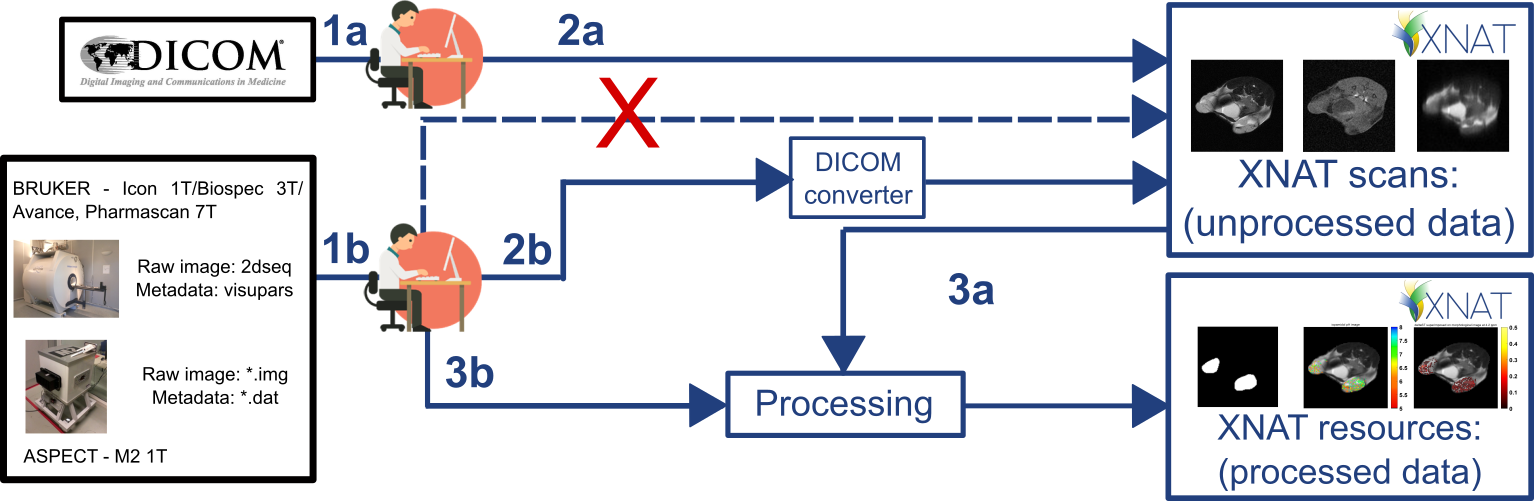
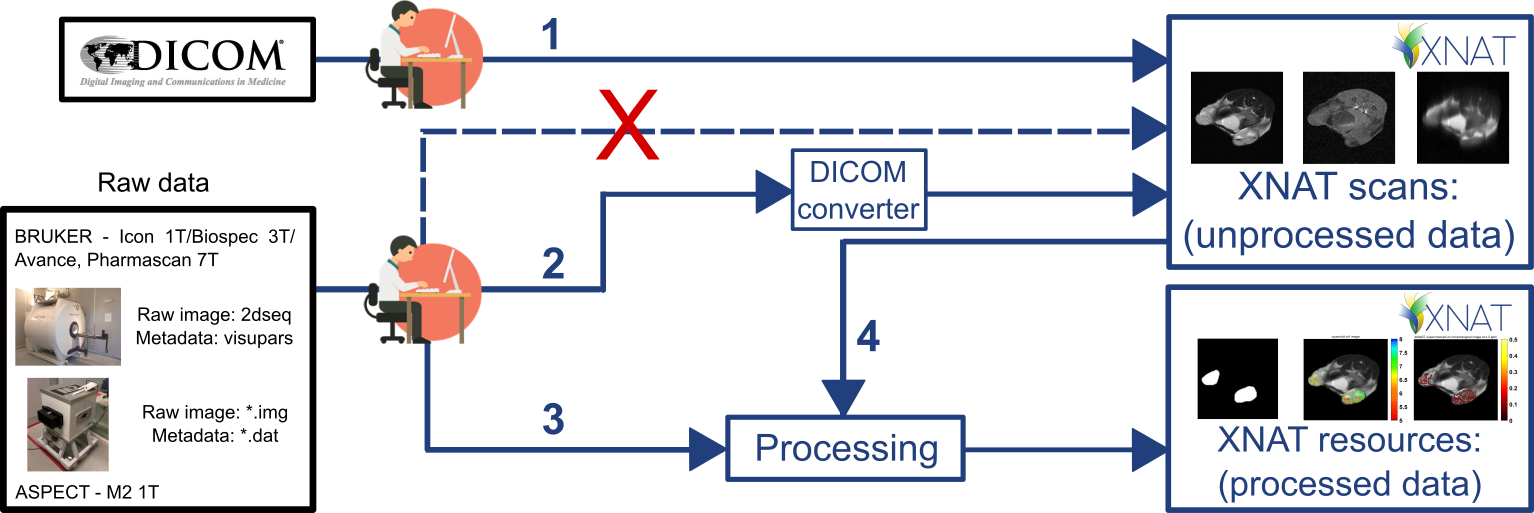
xnat page updated

diff --git a/website/research/research_xnat.php b/website/research/research_xnat.php
@@ -7,7 +7,7 @@ $localizer = "../";
     <!-- InstanceBegin template="/Templates/research.dwt" codeOutsideHTMLIsLocked="false" -->
     <head>
         <?php require $localizer . 'includes/head_const.inc.php'?>
-        <title>Molecular Imaging Center - University of Torino - XNAT </title>
+        <title>Molecular Imaging Center - University of Torino - CIM-XNAT </title>
         <meta name="description" content="" />
     </head>
     <body>
@@ -26,7 +26,7 @@ $localizer = "../";
                 <div id='content'>
                     <div class='paddingOuter'>
                         <div id='band'>
-                            <h1 id='subsectionTitle'><!-- InstanceBeginEditable name="subsection title" -->XNAT 
+                            <h1 id='subsectionTitle'><!-- InstanceBeginEditable name="subsection title" -->CIM-XNAT 
                              <!-- InstanceEndEditable --></h1>
                         </div>
                         <div class='paddingInner'>
@@ -34,35 +34,39 @@ $localizer = "../";
                                                                    
                                   <font size="3" ><b>Welcome to the CIM-XNAT information website!</b></font>
                                     <p class="indent">
-                                    We installed a <a href= "https://www.xnat.org" target="_blank" style="color:#dc6a10">XNAT</a> service 
+                                    A <a href= "https://www.xnat.org" target="_blank" style="color:#dc6a10">XNAT</a> service for archiving and processing preclinical medical images is
                                     available at <a href= "http://cim-xnat.unito.it/app/template/Login.vm" target="_blank" style="color:#dc6a10">http://cim-xnat.unito.it</a>. </br>
                                     Small animal imaging facilities are highly specialized centers that provide the research community access to cutting-edge imaging technologies. 
-                                    These centers have therefore to deal with the complexity and the variety of preclinical trial datasets.  Moreover, imaging data analysis requires a 
-                                    multidisciplinary effort, in terms of data management and processing. 
-                                    Our aim is to overcome this limitation through the integration of an open-source archiving platform with customizable tools for automated image processing. 
-                                    The workflow is based on the following steps:
+                                    These centers have therefore to deal with the complexity and the variety of preclinical image datasets in terms of archiving and retrieving image datasets as well as
+									for the management and processing. To date, no custom or standard solutions are available to imaging centers to fullfill these tasks.</br>
+									
+									XNAT natively supports multiple imaging modalities, such as MR, PET, CT, and US. We are extending XNAT datatypes to other 
+                                    preclinical imaging modalities, such as Optoacoustic (OA) and Optical Imaging (OI).</br>
+                                    
+                                    <p style="text-align:center;"><img src="../images/research_lines/DB.png" style="width: 400px; height: auto;  margin: 20px;" > </img></p>
+                                    
+									
+									We have overcome these limitations through the integration of an open-source archiving platform commonly exploited at clinical level based on XNAT with customizable tools for automated image processing. 
+                                    
+									The developed platform can provide the following workflow:
                                     <ul>
-     							   <li> retrieving multiple imaging datasets acquired through several instrumentations and modalities either in DICOM (1a) or proprietary formats (1b);</li> 
-                                    <li> a direct import of DICOM images to XNAT (2a) or a Bruker ParaVision to DICOM format converter to import images to XNAT (2b); </li> 
-                                    <li> an XNAT image processing pipeline accepting as input DICOM files (3a) or an image processing tool accepting raw data (3b) to produce parametric images related to biological aspects.</li> 
+     							   <li> importing multiple imaging datasets acquired through several instrumentations and modalities either in DICOM (1) or proprietary formats via DICOM converter (2);</li> 
+                                    <li> managing different experimental protocols importing user-defined variables (treated/untreated groups, different timepoints, doses, ...); </li> 
+                                    <li> image processing tool accepting raw data (3) or an XNAT image processing pipeline accepting as input DICOM files (4) to produce parametric images by calling user-proprietary image-analysis script.</li> 
                                     </ul>             
 									</p>                      
                                     
                                     <img src="../images/research_lines/xnat_workflow.png" style="width: 850px; height: auto;  margin: 20px;" > </img> <br/>
                                     
-                                     XNAT natively supports multiple imaging modalities, such as MR, PET, CT, and US. We aim to extend XNAT datatypes to other 
-                                    preclinical imaging methods, such as Optoacoustic (OA) and Optical Imaging (OI).</br>
-                                    
-                                    <p style="text-align:center;"><img src="../images/research_lines/DB.png" style="width: 400px; height: auto;  margin: 20px;" > </img></p>
                                       
-                                   We offer the following services:            
+                                    In the near future, we offer the following services:            
      							   <ul>
      							   <li>Each user can, after registration, create his/her own projects and upload DICOM data. </li> 
      							   <li>Users can run external applications and shell scripts (pipeline) passing the required parameters to the application to 
      							   download the data, process it and import the processed data back to XNAT. To date Diffusion Weigthed Imaging (DWI) processing pipelines that cun run at project/subject level are available on our XNAT instance.</li>
 									<li>Users can either use previously imported mask on XNAT or create mask directly on XNAT (beta) to obtain parametric images.</li>
                                      </ul>
-                                     
+                                    
 									
                                     <font size="3" ><b>Contact information</b></font>
                                      <p class="indent">

diff --git a/website/includes/research-side-nav.php b/website/includes/research-side-nav.php
@@ -73,7 +73,7 @@ echo "
 						<a href='" . $localizer . "research/research_processing.php'>Image Processing</a>
 					</dt>
                     <dt id='section1-subsection22' class='subsection_link sidebar-indent'>
-						<a href='" . $localizer . "research/research_xnat.php'>XNAT</a>
+						<a href='" . $localizer . "research/research_xnat.php'>CIM-XNAT</a>
 					</dt>
 
 					
